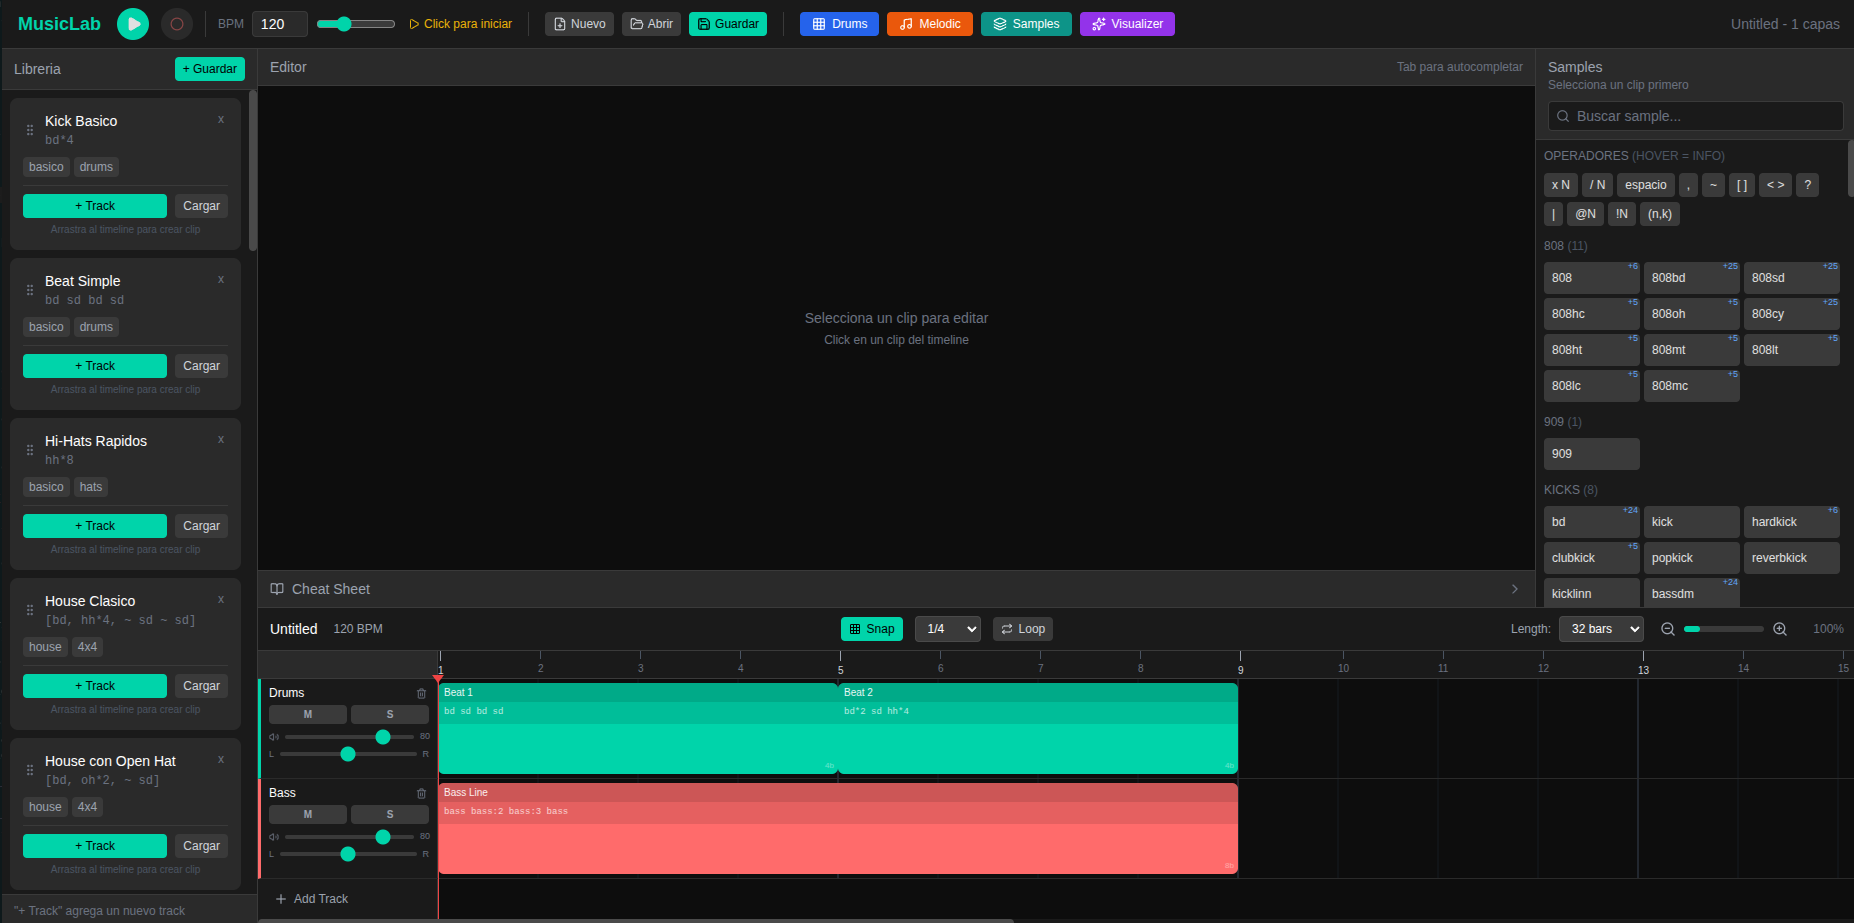
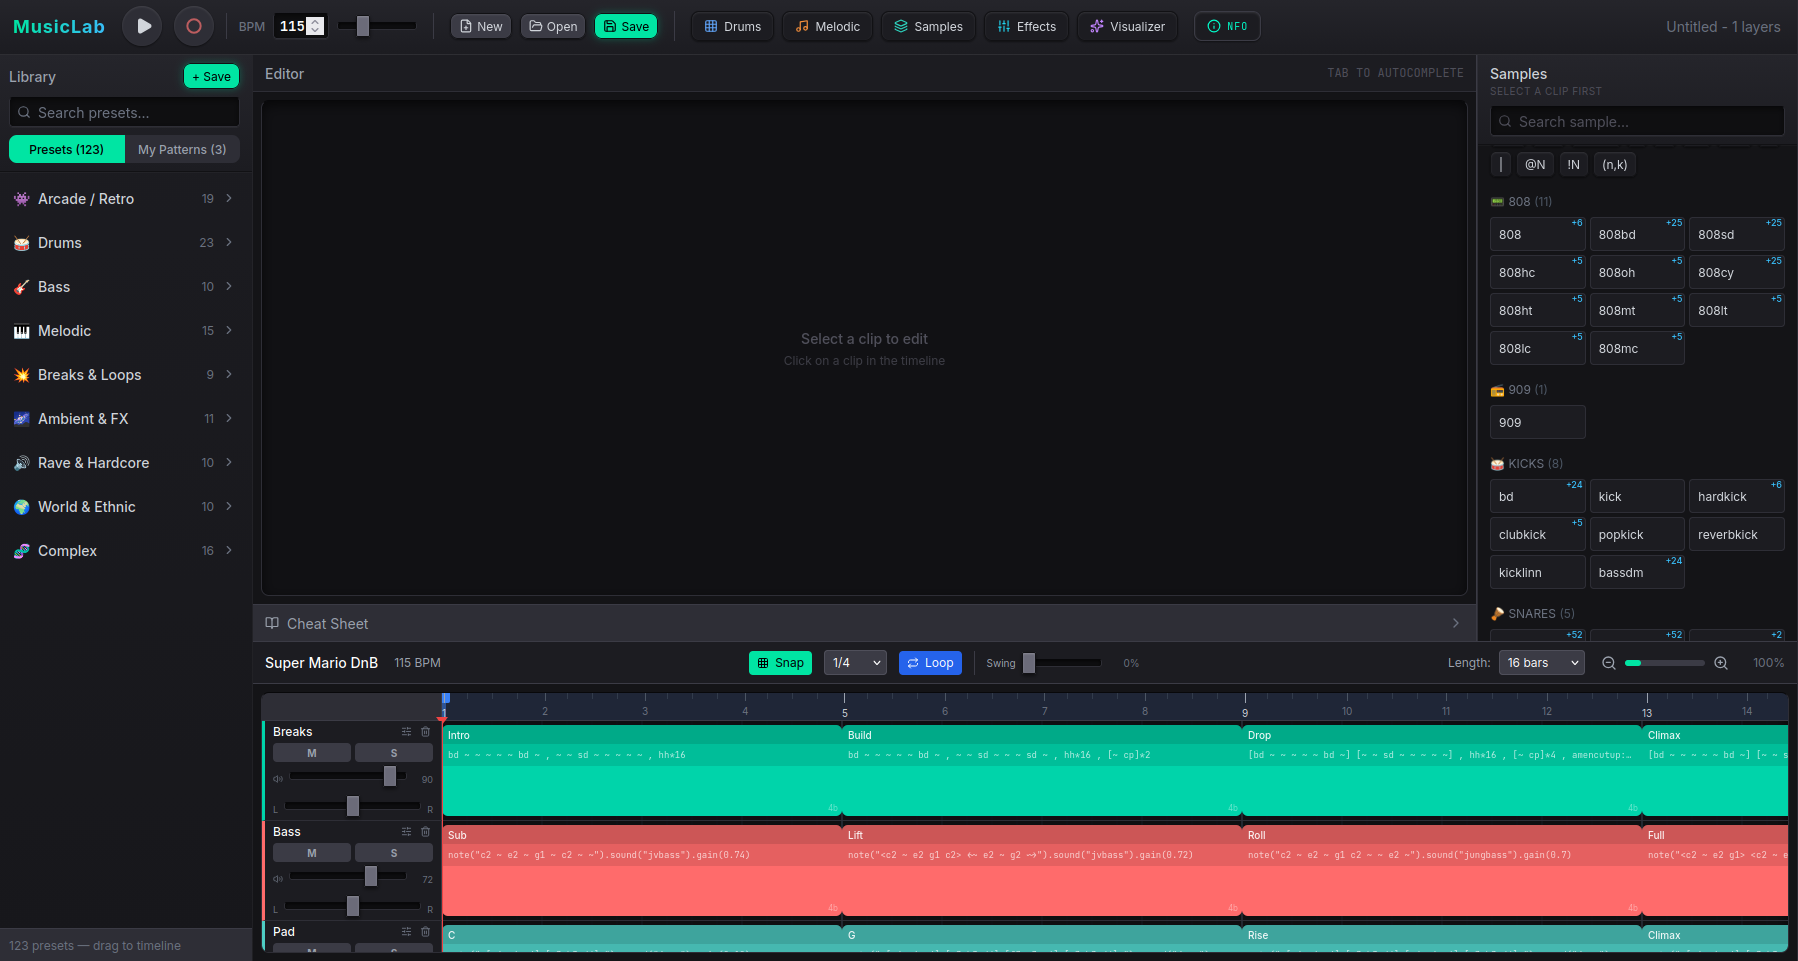
Release v2.2.0

diff --git a/README.md b/README.md
@@ -225,6 +225,16 @@ MusicLab uses the [Dirt-Samples](https://github.com/tidalcycles/Dirt-Samples) co
 
 ## Changelog
 
+### v2.2.0 (2026-07-12)
+- **Default song**: the app now opens with a ready-to-play drum & bass sketch (intro/break/build/drop drums, reese + rolling sub bass, juno/glass pads, pluck/arpy lead) at a default tempo of 115 BPM; "New" uses the same template.
+- **Effects & sample routing**: the Effects Rack and Sample Browser now edit the clip currently in edition so changes are actually audible in the arrangement.
+- **Preview/transport safety**: previewing a sample no longer halts the running transport, and closing a sequencer while playing no longer stops arrangement playback.
+- **BPM handling**: BPM is validated (finite, > 0, capped at 400) so a bad value can't freeze the scheduler.
+- **Arrangement UX**: fixed the frozen track-control column painting under selected clips on horizontal scroll, tightened TrackControls layout, and removed clipping from the Effects Rack panel.
+- **Sequencer fixes**: swing is preserved when adding a pattern as a track, preview restarts/stops correctly on tempo, step-count, and empty-grid changes, and the melodic sequencer no longer mutates base octave inside a state updater.
+- **Persistence**: server JSON store now writes atomically (temp file + rename) to avoid corruption from concurrent writes; `loadProject` uses nullish fallbacks for loop/length/BPM.
+- **Docs**: updated the README screenshot.
+
 ### v2.1.0 (2026-03-22)
 - **Project persistence overhaul**: unified the canonical project schema across client export/import, autosave, and server API; groove, automation, loop metadata, and legacy projects now round-trip correctly.
 - **Safer loading flows**: opening/importing projects now validates data earlier, prompts before destructive replacement, and resets arrangement view/playhead state when switching projects.
